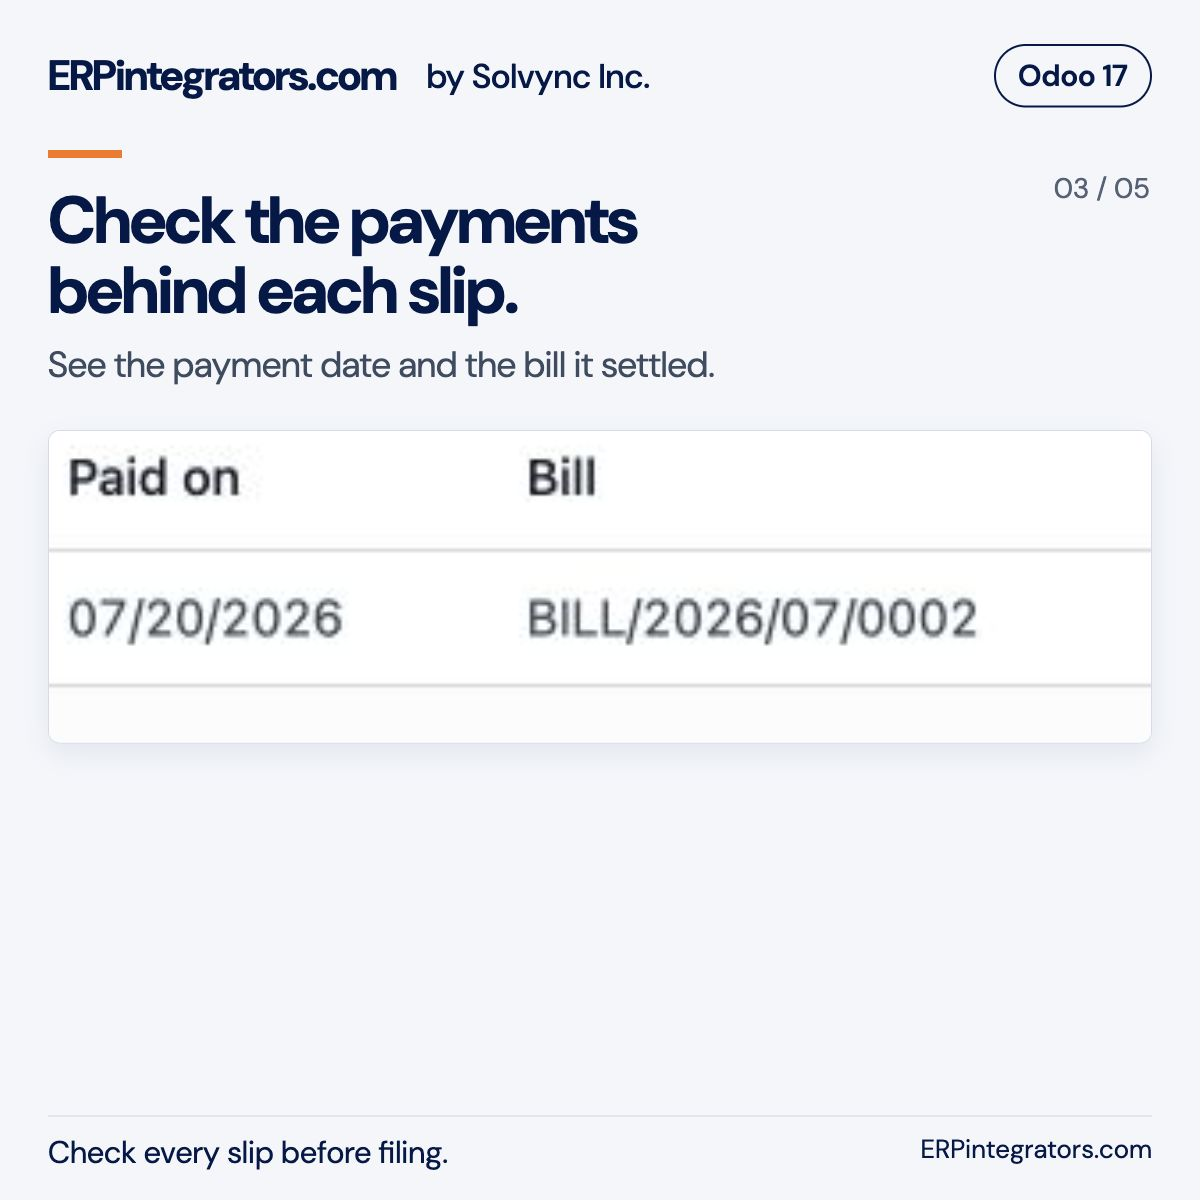
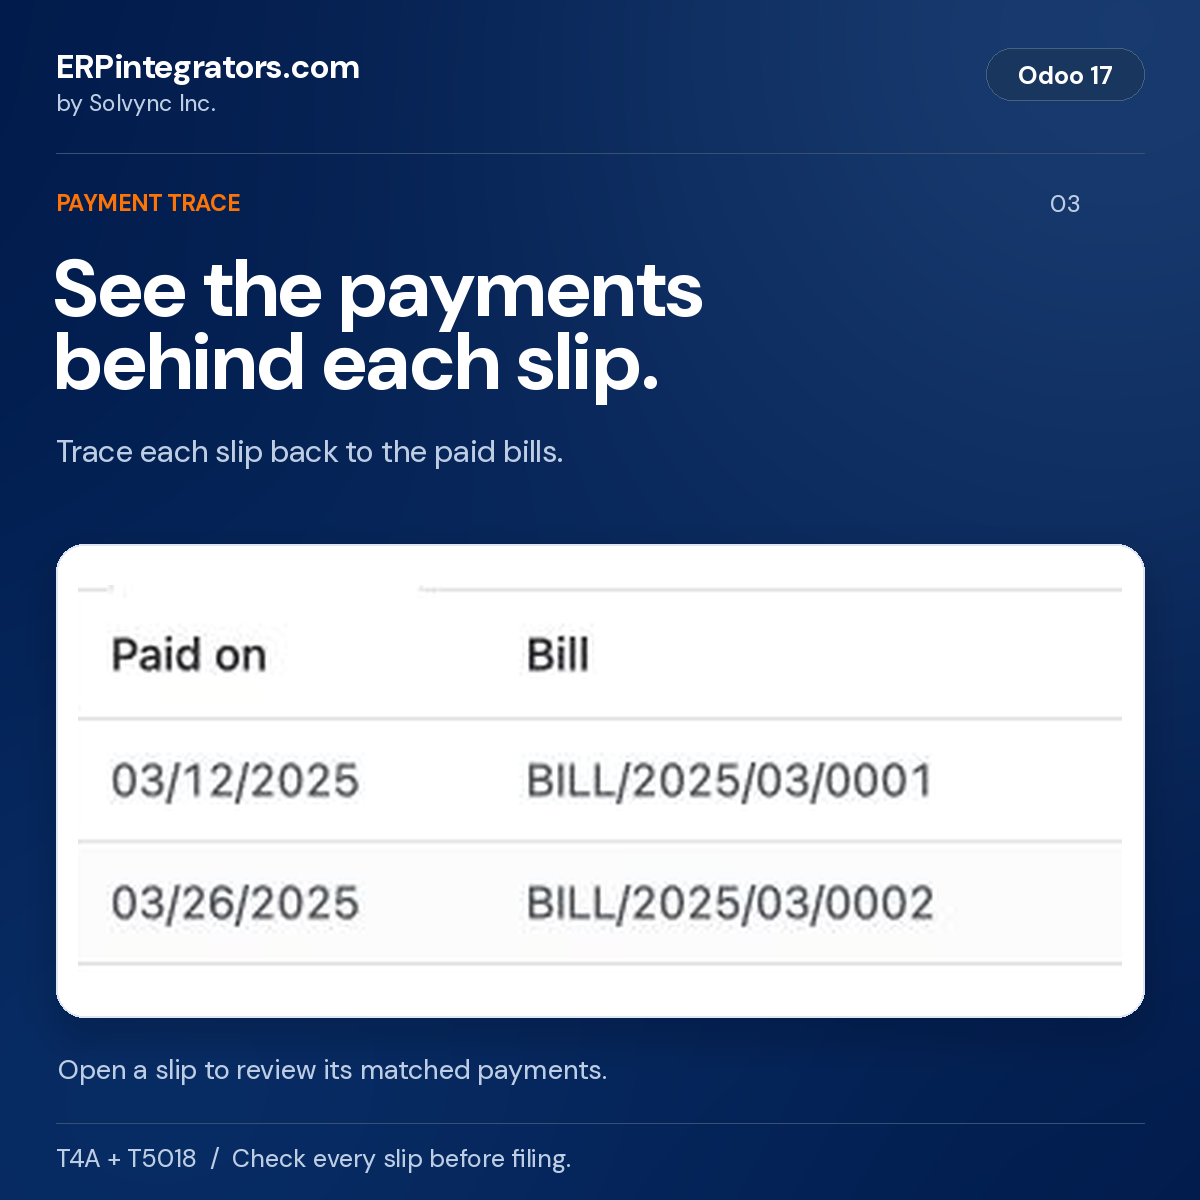
Publish modern workflow cards and version-specific walkthrough

diff --git a/l10n_ca_contractor_slips/static/description/index.html b/l10n_ca_contractor_slips/static/description/index.html
@@ -2,7 +2,7 @@
 <h1 itemprop="name" id="t4a-and-t5018-slips">T4A and T5018 Slips</h1>
 <section class="mb-4">
 <h2>Release details</h2>
-<p>Version <span itemprop="softwareVersion">17.0.1.3</span>, stable release.</p>
+<p>Version <span itemprop="softwareVersion">17.0.1.4</span>, stable release.</p>
 <p>Server operating system: <span itemprop="operatingSystem">Linux</span>.</p>
 <p itemprop="softwareRequirements">Requires Odoo 17 Community or Enterprise, on Odoo.sh or your own server. Odoo Online is not supported.</p>
 <p><span itemprop="offers" itemscope="" itemtype="https://schema.org/Offer">Module price: US$<span itemprop="price">199</span> <span itemprop="priceCurrency">USD</span>.</span> Hosting, Odoo subscriptions and separately agreed services are excluded.</p>
@@ -58,29 +58,38 @@ module downloads CRA's public XML schemas from canada.ca the first time
 you finalize a return.</p>
 <h2 id="review-the-contractor-reporting-workflow">Review the contractor
 reporting workflow</h2>
-<p>These screens show staged T5018 and T4A records in Odoo 17
-Enterprise. Names, amounts and records are demo data. The example 2026
-period is still open; review the warning before filing. Each image
-focuses on one part of the workflow. The accounting and filing limits
-below apply to both editions.</p>
+<p>These screens show fictional T5018 records in Odoo 17 Community. The
+closed 2025 calendar return has three slips totalling CAD34,650. The
+example uses the 2026 XML submission format. The accounting and filing
+limits below apply to both Community and Enterprise.</p>
 <div class="row">
 <div class="col-12 col-lg-6 mb-4">
-<img class="img-fluid" width="1200" height="1200" src="screenshots/01-reporting-period.png" alt="T5018 return in Odoo showing the reporting period, four slips and a total reported of 43,554 Canadian dollars" />
+<img class="img-fluid" width="1200" height="1200" src="screenshots/01-reporting-period.png" alt="T5018 return in Odoo 17 showing the closed 2025 calendar period, three slips and CAD34,650 reported" />
 </div>
 <div class="col-12 col-lg-6 mb-4">
-<img class="img-fluid" width="1200" height="1200" src="screenshots/02-reported-amount.png" alt="A contractor's T5018 slip showing 24,000 dollars before tax and 25,200 dollars reported with tax" />
+<img class="img-fluid" width="1200" height="1200" src="screenshots/02-reported-amount.png" alt="T5018 example: Cedarline Framing Ltd., CAD24,000 before tax and CAD25,200 reported with tax" />
 </div>
 <div class="col-12 col-lg-6 mb-4">
-<img class="img-fluid" width="1200" height="1200" src="screenshots/03-payment-trace.png" alt="The payment trace on an Odoo contractor slip, with the paid date and the vendor bill it settled" />
+<img class="img-fluid" width="1200" height="1200" src="screenshots/03-payment-trace.png" alt="Two dated matched vendor bills supporting Cedarline Framing Ltd. T5018 payments" />
 </div>
 <div class="col-12 col-lg-6 mb-4">
-<img class="img-fluid" width="1200" height="1200" src="screenshots/04-cra-xml.png" alt="A finalized T5018 return with Download CRA file and its generated XML attachment, prepared for the buyer to upload" />
+<img class="img-fluid" width="1200" height="1200" src="screenshots/04-cra-xml.png" alt="Finalized T5018 return with Download CRA file, ready for review and separate upload to CRA" />
 </div>
 <div class="col-12 col-lg-6 mb-4">
-<img class="img-fluid" width="1200" height="1200" src="screenshots/05-recipient-portal.png" alt="The contractor portal listing a T4A for 2026, the recipient's amount of 2,150 dollars and a PDF download link" />
+<img class="img-fluid" width="1200" height="1200" src="screenshots/05-recipient-portal.png" alt="Recipient portal showing the contractor's own 2025 T5018 slip, CAD25,200 reported and a PDF download" />
 </div>
 </div>
 
+<h3 id="watch-the-workflow-in-odoo-17">Watch the workflow in Odoo
+17</h3>
+<img class="img-fluid" width="720" height="450" src="t4a-t5018-odoo-17-walkthrough.gif" alt="Odoo 17 T5018 walkthrough: calculate three slips, inspect the amount and payment trace, finalize and download the CRA XML file" />
+
+<p>This 16-second walkthrough uses a camera and cursor over reproduced
+Odoo screens. Calculate slips, review the contractor's amount and
+matched bills, finalize, then download the CRA file. Review the file and
+upload it to CRA separately using your own authorized account.
+Downloading the XML does not file the return or establish CRA
+acceptance.</p>
 <h2 id="questions-about-t4a-and-t5018-in-odoo">Questions about T4A and
 T5018 in Odoo</h2>
 <h3 id="which-t4a-slips-does-this-module-prepare">Which T4A slips does

diff --git a/l10n_ca_contractor_slips/__manifest__.py b/l10n_ca_contractor_slips/__manifest__.py
@@ -3,7 +3,7 @@
 {
     "name": "T4A and T5018 Slips",
     "summary": "T4A box 048 and T5018 contractor tax slips for Odoo, with payment traces, CRA XML and recipient PDFs",
-    "version": "17.0.1.3",
+    "version": "17.0.1.4",
     "category": "Accounting/Localizations/Reporting",
     "author": "ERPintegrators.com (Solvync Inc.)",
     "website": "https://erpintegrators.com",

diff --git a/l10n_ca_contractor_slips/readme/SCREENS.md b/l10n_ca_contractor_slips/readme/SCREENS.md
@@ -1,27 +1,35 @@
 ## Review the contractor reporting workflow
 
-These screens show staged T5018 and T4A records in Odoo 17 Enterprise. Names, amounts and
-records are demo data. The example 2026 period is still open; review the warning before filing.
-Each image focuses on one part of the workflow. The accounting and filing limits below apply
-to both editions.
+These screens show fictional T5018 records in Odoo 17 Community. The closed 2025 calendar
+return has three slips totalling CAD34,650. The example uses the 2026 XML submission format.
+The accounting and filing limits below apply to both Community and Enterprise.
 
 <div class="row">
 <div class="col-12 col-lg-6 mb-4">
-<img width="1200" height="1200" src="screenshots/01-reporting-period.png" alt="T5018 return in Odoo showing the reporting period, four slips and a total reported of 43,554 Canadian dollars" />
+<img width="1200" height="1200" src="screenshots/01-reporting-period.png" alt="T5018 return in Odoo 17 showing the closed 2025 calendar period, three slips and CAD34,650 reported" />
 </div>
 <div class="col-12 col-lg-6 mb-4">
-<img width="1200" height="1200" src="screenshots/02-reported-amount.png" alt="A contractor's T5018 slip showing 24,000 dollars before tax and 25,200 dollars reported with tax" />
+<img width="1200" height="1200" src="screenshots/02-reported-amount.png" alt="T5018 example: Cedarline Framing Ltd., CAD24,000 before tax and CAD25,200 reported with tax" />
 </div>
 <div class="col-12 col-lg-6 mb-4">
-<img width="1200" height="1200" src="screenshots/03-payment-trace.png" alt="The payment trace on an Odoo contractor slip, with the paid date and the vendor bill it settled" />
+<img width="1200" height="1200" src="screenshots/03-payment-trace.png" alt="Two dated matched vendor bills supporting Cedarline Framing Ltd. T5018 payments" />
 </div>
 <div class="col-12 col-lg-6 mb-4">
-<img width="1200" height="1200" src="screenshots/04-cra-xml.png" alt="A finalized T5018 return with Download CRA file and its generated XML attachment, prepared for the buyer to upload" />
+<img width="1200" height="1200" src="screenshots/04-cra-xml.png" alt="Finalized T5018 return with Download CRA file, ready for review and separate upload to CRA" />
 </div>
 <div class="col-12 col-lg-6 mb-4">
-<img width="1200" height="1200" src="screenshots/05-recipient-portal.png" alt="The contractor portal listing a T4A for 2026, the recipient's amount of 2,150 dollars and a PDF download link" />
+<img width="1200" height="1200" src="screenshots/05-recipient-portal.png" alt="Recipient portal showing the contractor's own 2025 T5018 slip, CAD25,200 reported and a PDF download" />
 </div>
 </div>
+
+### Watch the workflow in Odoo 17
+
+<img width="720" height="450" src="t4a-t5018-odoo-17-walkthrough.gif" alt="Odoo 17 T5018 walkthrough: calculate three slips, inspect the amount and payment trace, finalize and download the CRA XML file" />
+
+This 16-second walkthrough uses a camera and cursor over reproduced Odoo screens. Calculate
+slips, review the contractor's amount and matched bills, finalize, then download the CRA file.
+Review the file and upload it to CRA separately using your own authorized account. Downloading
+the XML does not file the return or establish CRA acceptance.
 
 ## Questions about T4A and T5018 in Odoo
 
